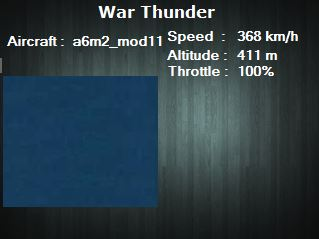
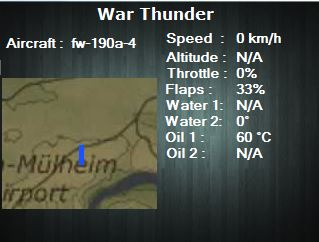
New Screenshot for updates, Removed decimal point in temps from indicator

diff --git a/WarThunderApplet/WarThunderForm.cs b/WarThunderApplet/WarThunderForm.cs
@@ -130,7 +130,7 @@ namespace WarThunderApplet
                         getNewMap = false;
                         if (returnImage != null)
                         {               
-                            MapBitmap = new Bitmap(returnImage);
+                          //  MapBitmap = new Bitmap(returnImage);
                             Map.Image = returnImage;
                         }
                     }
@@ -138,6 +138,7 @@ namespace WarThunderApplet
                     Screen = new Bitmap(320, 240);
                     mainPanel.DrawToBitmap(Screen, new Rectangle(0, 0, Screen.Width, Screen.Height));
                     DMcLgLCD.LcdUpdateBitmap(device, Screen.GetHbitmap(), DMcLgLCD.LGLCD_DEVICE_QVGA);
+                    
                 }
             }
             catch (Exception exception)
@@ -197,12 +198,12 @@ namespace WarThunderApplet
                 if (indicatorInfo.ContainsKey("water_temperature"))
                 {
                     var waterTemp =
-                        Math.Round(Convert.ToDouble(indicatorInfo["water_temperature"]), 2, MidpointRounding.AwayFromZero);
+                        Math.Round(Convert.ToDouble(indicatorInfo["water_temperature"]), 0, MidpointRounding.AwayFromZero);
                     water1TempOutput.Text = waterTemp.ToString() +  " °C";
                 }
                 if (indicatorInfo.ContainsKey("oil_temperature"))
                 {
-                    var oilTemp = Math.Round(Convert.ToDouble(indicatorInfo["oil_temperature"]), 2, MidpointRounding.AwayFromZero);
+                    var oilTemp = Math.Round(Convert.ToDouble(indicatorInfo["oil_temperature"]), 0, MidpointRounding.AwayFromZero);
                    oil1TempOutput.Text = oilTemp.ToString() + " °C";
                 }
                 aircraftOutput.Text = indicatorInfo["type"];
@@ -237,21 +238,21 @@ namespace WarThunderApplet
             var areaOfMap = new Rectangle(xCords,yCords,Map.Width,Map.Height);
             Map.Image = MapBitmap.Clone(areaOfMap, MapBitmap.PixelFormat);
             MapBitmap.Dispose();
+       
 
         }
 
         private async Task DrawAirfieldOnMap(MapObjectModel model)
         {
             graphics = Graphics.FromImage(returnImage);
-            var colorOfAirfield = ColorTranslator.FromHtml(model.Color);//Color.FromArgb(model.Color[0],model.Color[1],model.Color[2]);
+            var colorOfAirfield = ColorTranslator.FromHtml(model.Color);
             var brush = new SolidBrush(colorOfAirfield);
             var xCords = (float)(returnImage.Width*model.SX);
             var yCords = (float)(returnImage.Height*model.SY);
-            //var width = (float) (((model.SX - model.EX)*returnImage.Width) - xCords);
-            //var height = (float)(((model.SY - model.EY) * returnImage.Height) - yCords);
-            var rect = new RectangleF(xCords,yCords,5,5);
+            var rect = new RectangleF(xCords,yCords,5,20);
             graphics.FillRectangle(brush,rect);
             graphics.Dispose();
+            brush.Dispose();
         }
 
 
